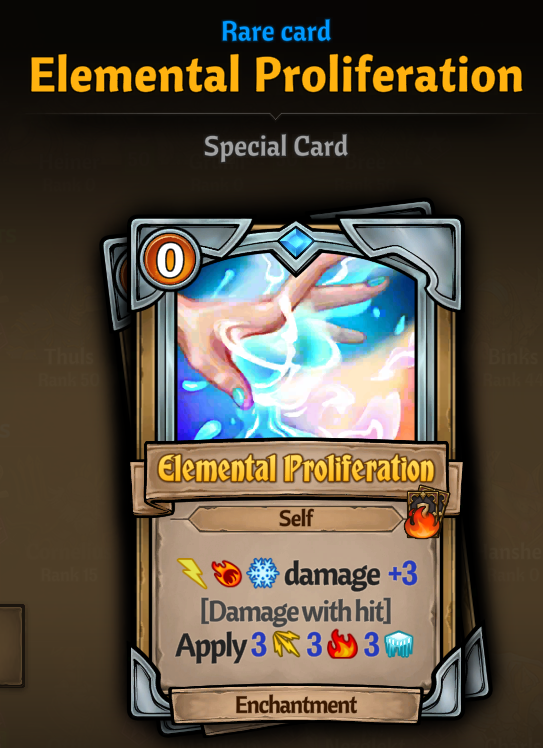
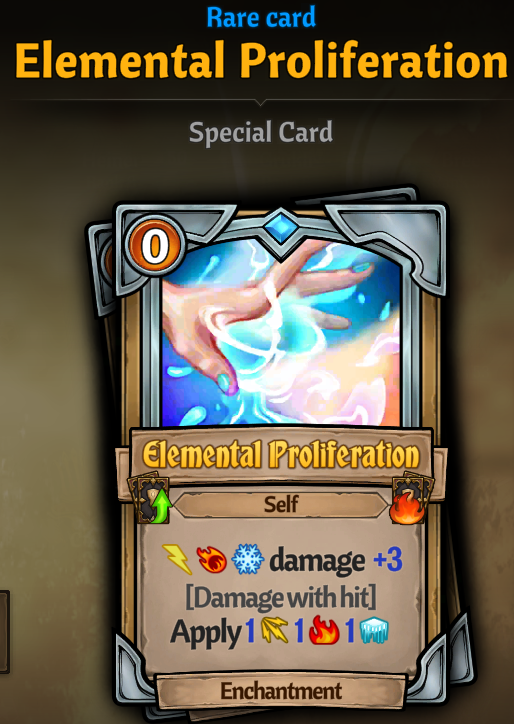
Updated to 1.1.1

diff --git a/ATO-Three_Element_Master_Evelyn_TraitMod/Plugin.cs b/ATO-Three_Element_Master_Evelyn_TraitMod/Plugin.cs
@@ -11,7 +11,7 @@ namespace ThreeElementMasterEvelyn
     [BepInProcess("AcrossTheObelisk.exe")]
     public class Plugin : BaseUnityPlugin
     {
-        internal const int ModDate = 20231217;
+        internal const int ModDate = 20250131;
         private readonly Harmony harmony = new(PluginInfo.PLUGIN_GUID);
         internal static ManualLogSource Log;
         private void Awake()

diff --git a/README.md b/README.md
@@ -7,9 +7,11 @@ A content pack for [Obeliskial Content](https://across-the-obelisk.thunderstore.
 
 ### Enchantments
 
-![Elemental_Proliferation](https://github.com/4AleRoL4/ATO-Three_Element_Master_Evelyn/blob/main/Picture/Elemental_Proliferation.png?raw=true)
+![Elemental_Proliferation](https://github.com/Shazixnar/ATO-Three_Element_Master_Evelyn/blob/main/Picture/Elemental_Proliferation.png?raw=true)
 
-![Arcane_Conduit](https://github.com/4AleRoL4/ATO-Three_Element_Master_Evelyn/blob/main/Picture/Arcane_Conduit.png?raw=true)
+![Arcane_Conduit](https://github.com/Shazixnar/ATO-Three_Element_Master_Evelyn/blob/main/Picture/Arcane_Conduit.png?raw=true)
+
+PS: Arcane Conduit have many cards can be discovered, includes fire, lightning and cold spell.
 
 </details>
 

diff --git a/CHANGELOG.md b/CHANGELOG.md
@@ -1,3 +1,7 @@
+# 1.1.1
+
+Redo two enhancements.
+
 # 1.1.0
 
 Separate all cards to another mod.
